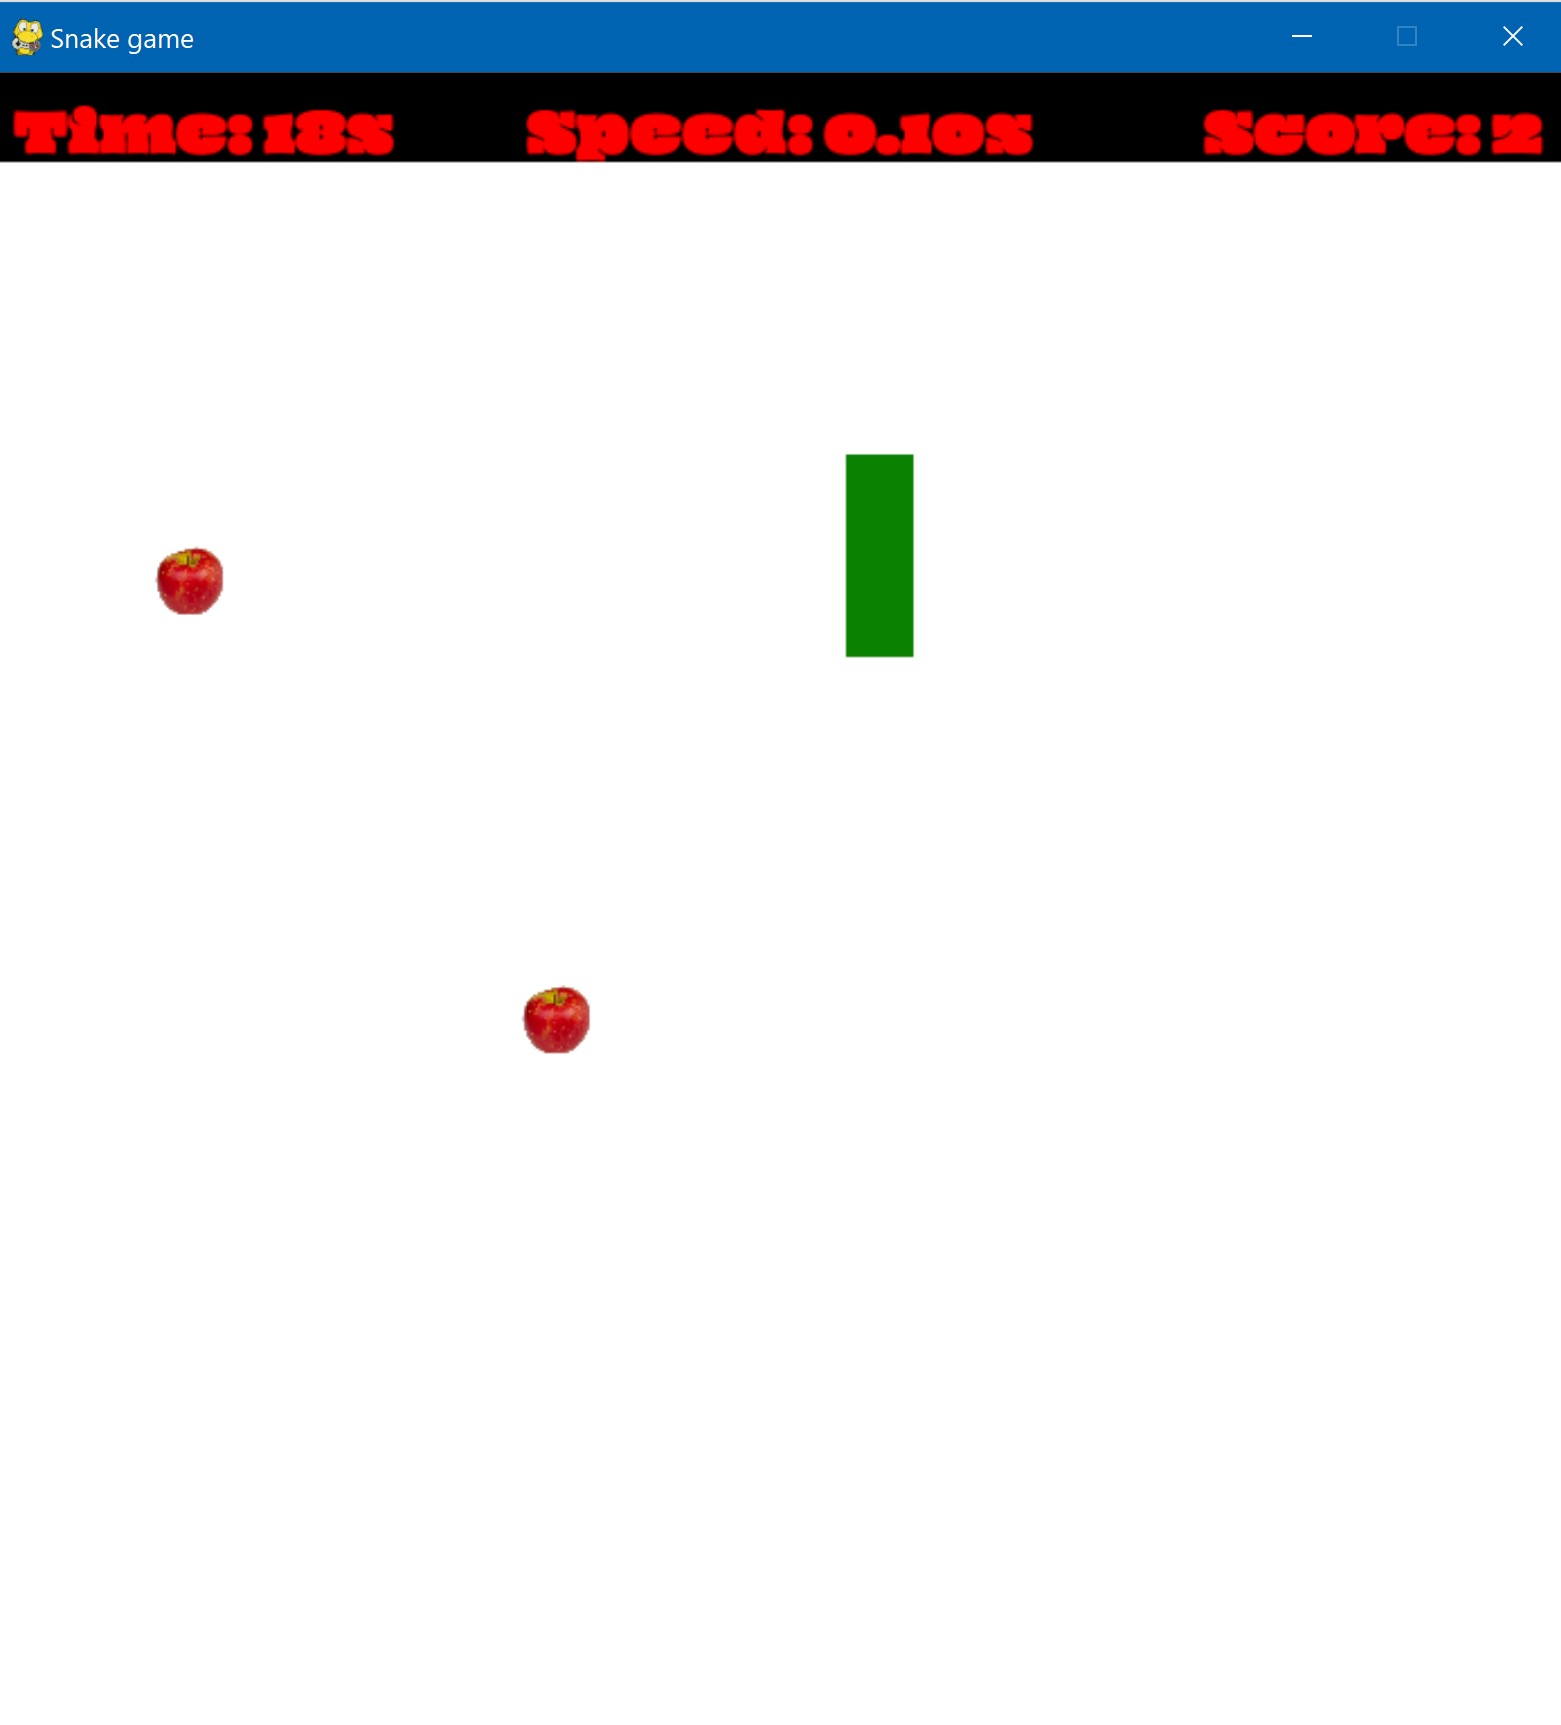
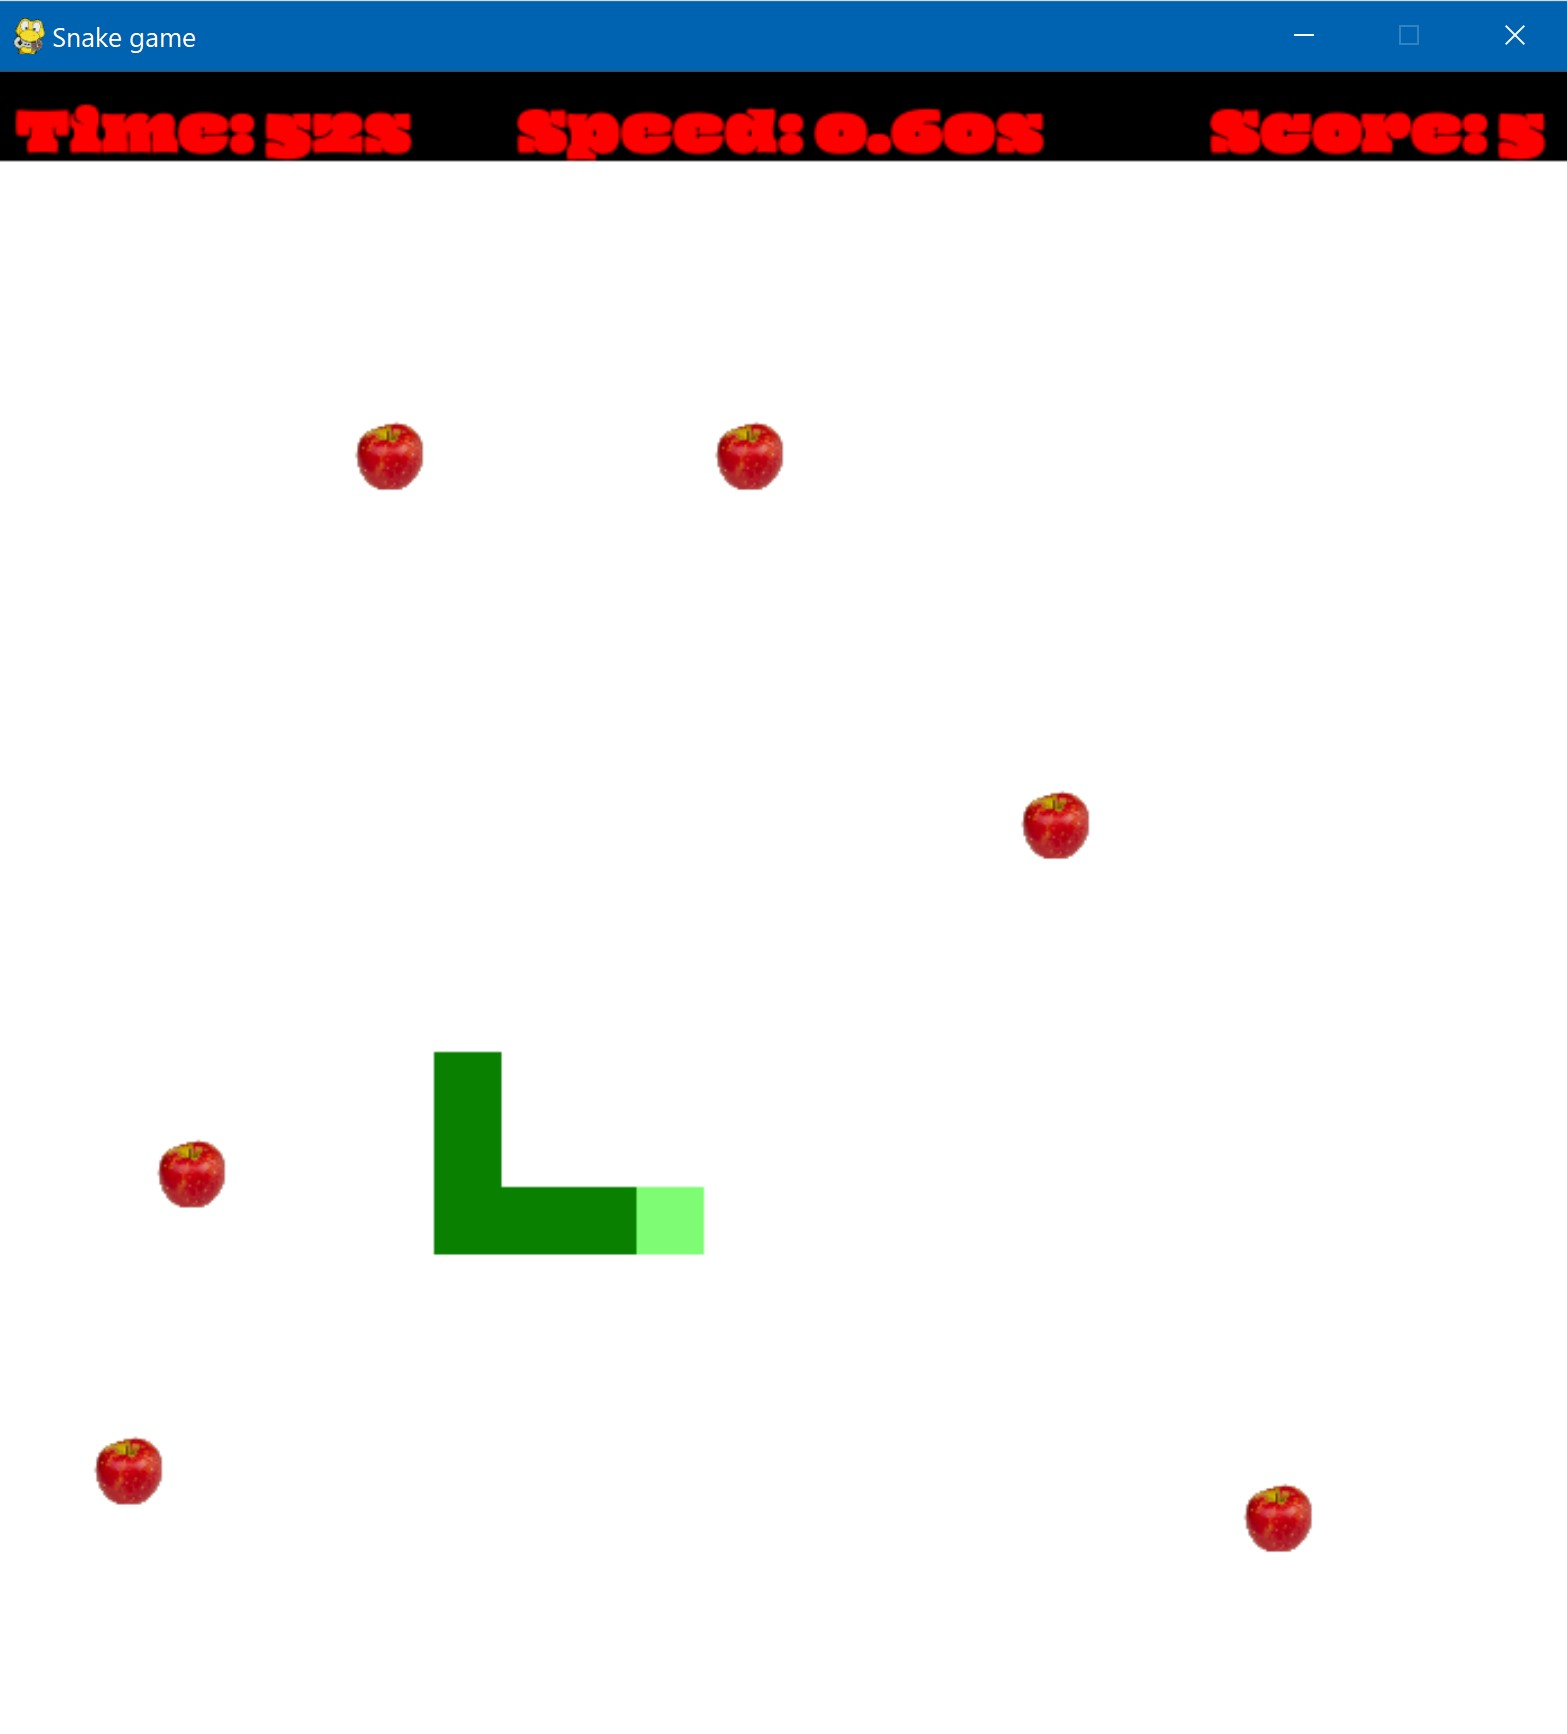
feat(snake head colour)

diff --git a/src/snake.py b/src/snake.py
@@ -36,8 +36,9 @@ class Snake:
         return True
 
     def draw(self, screen):
-        for segment in self.body:
-            pygame.draw.rect(screen, SNAKE_COLOUR, segment)
+        for i, segment in enumerate(self.body):
+            colour = SNAKE_HEAD_COLOUR if i == 0 else SNAKE_COLOUR
+            pygame.draw.rect(screen, colour, segment)
 
     def eat(self):
         self.ate_fruit = True

diff --git a/src/constants.py b/src/constants.py
@@ -18,6 +18,7 @@ FRUIT_CREATION_TIME = 5  # every 5 seconds, a new fruit will be generated
 
 STEP_SIZE = 30
 SNAKE_COLOUR = (10, 128, 1)
+SNAKE_HEAD_COLOUR = (126, 252, 116)
 SNAKE_SPEED = 0.5  # every 0.5 seconds, move the snake
 
 DIRECTIONS = {
